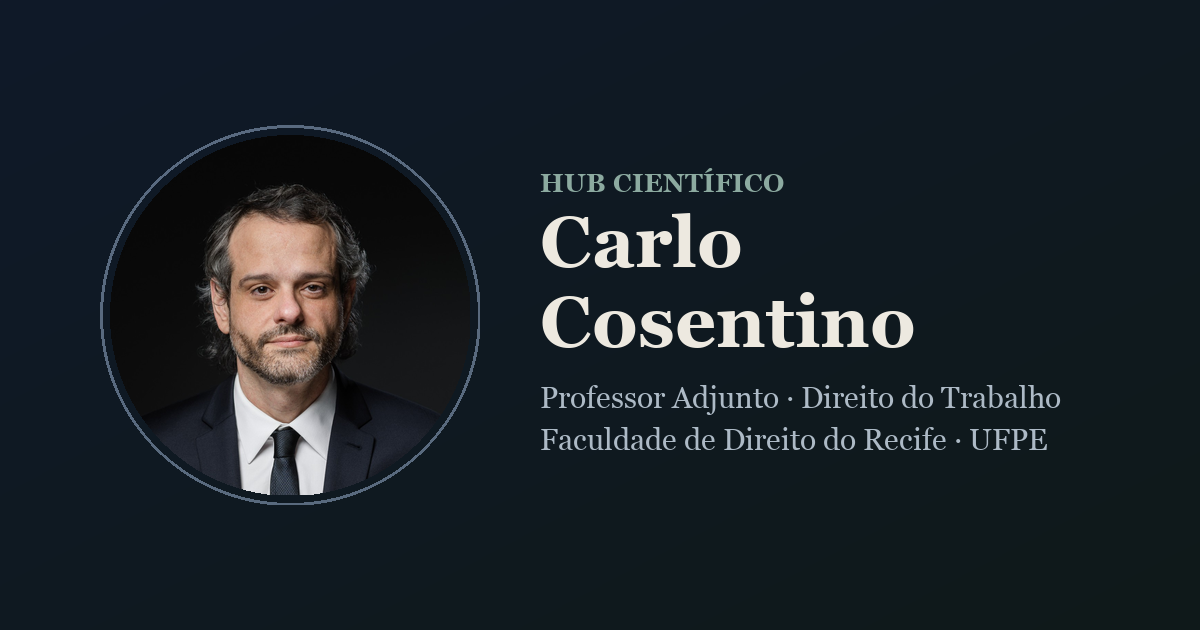
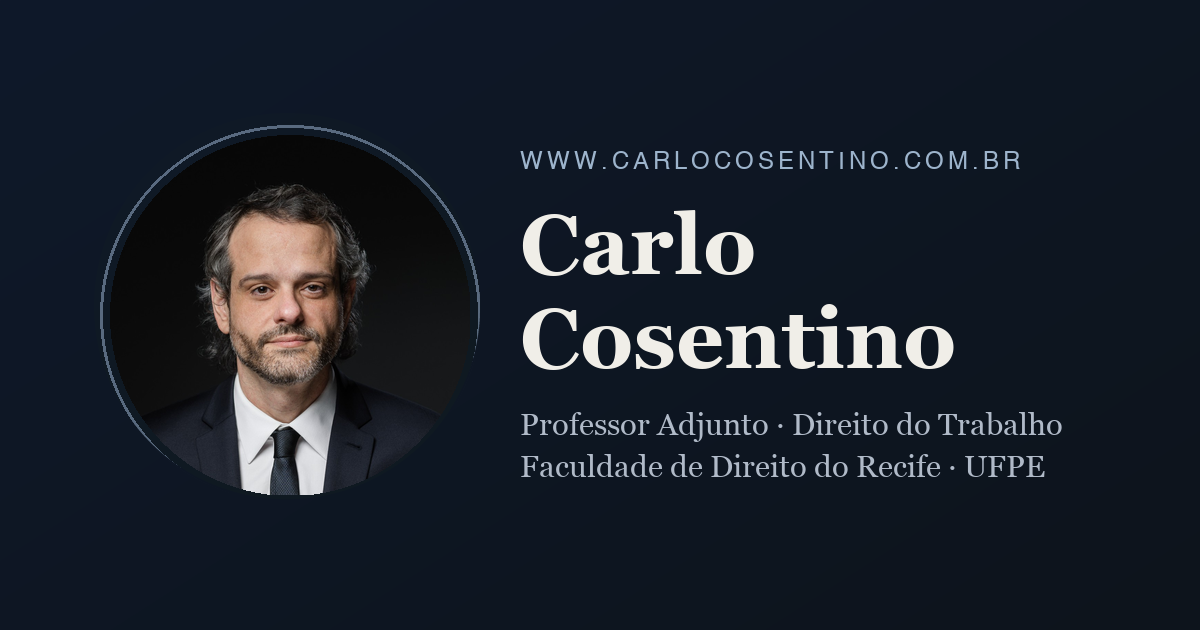
Padroniza títulos, reformula publicações, contato e Grupo de Pesquisa
- Títulos padronizados (block markdown content.title) em Perfil, Publicações,
  Grupo de Pesquisa e nova página Contato
- Página /publication/: lista TODAS as publicações em 2 colunas (desktop)
- Resumos de conteúdo acessíveis (não acadêmicos) em todas as 24 publicações;
  adiciona resumo ao artigo "Revolução informacional" e padroniza "Indústria 4.0"
- Nova página /contato/ (versão completa) + item de menu "Contato";
  rodapé com contato discreto; remove a linha inferior (licença + "Hugo Blox")
- Grupo de Pesquisa "Direito do Trabalho e Teoria Social Crítica": coordenação
  com "Prof." e Lattes (Carlo e Hugo Melo), vínculos linkados (RENAPEDTS/PPGD),
  "Projetos de Pesquisa em andamento" com resumos dos dois projetos
- Remove "hub científico" de todo o site (post, descrição, imagem OG) e
  regenera a imagem de compartilhamento na identidade visual do site

diff --git a/layouts/_partials/hooks/head-end/custom-bg.html b/layouts/_partials/hooks/head-end/custom-bg.html
@@ -96,4 +96,11 @@
   .site-contato button{align-self:flex-end;background:#9db4cc;color:#0a0a0b;border:0;border-radius:10px;padding:.62rem 1.7rem;font-weight:700;font-size:.95rem;cursor:pointer;letter-spacing:.06em}
   .site-contato button:hover{background:#b6c7d8}
   @media(max-width:820px){.site-contato{grid-template-columns:1fr;gap:2rem}}
+  /* Remove a linha inferior do rodapé: ícones de licença + "Made with Hugo Blox" + "Construa a sua" */
+  footer .powered-by{display:none !important}
+  /* Contato discreto no rodapé (versão completa fica em /contato/) */
+  .site-contato-mini{display:flex;flex-wrap:wrap;justify-content:center;align-items:center;gap:.55rem;font-size:.85rem;color:#8a93a0;padding:.3rem 0}
+  .site-contato-mini a{color:#9db4cc;text-decoration:none}
+  .site-contato-mini a:hover{color:#e8e8ea}
+  .site-contato-mini span{color:#454c57}
 </style>

diff --git a/content/projects/_index.md b/content/projects/_index.md
@@ -1,27 +1,36 @@
 ---
-title: 'Grupo de Pesquisa'
+title: 'Direito do Trabalho e Teoria Social Crítica'
 date: 2024-05-19
 type: landing
 
 sections:
   - block: markdown
     content:
+      title: 'Direito do Trabalho e Teoria Social Crítica'
       text: |-
         <style>
         .gp{max-width:820px;margin:0 auto;padding-top:.5rem}
-        .gp__kicker{text-align:center;font-size:.8rem;letter-spacing:.16em;text-transform:uppercase;color:#9db4cc;font-weight:700;margin-bottom:1.2rem}
+        .gp__kicker{text-align:center;font-size:.8rem;letter-spacing:.16em;text-transform:uppercase;color:#9db4cc;font-weight:700;margin:-.6rem 0 1.4rem}
         .gp__desc{color:#cdd2da;line-height:1.85;font-size:1.04rem;text-align:justify;text-justify:inter-word;hyphens:auto;margin:0 0 1.2rem}
         .gp__desc strong{color:#f3f4f6;font-weight:600}
         .gp__meta{color:#aeb6c2;font-size:.96rem;line-height:1.8;margin:1.4rem 0 0;padding-top:1.2rem;border-top:1px solid rgba(255,255,255,.09)}
         .gp__meta strong{color:#f3f4f6;font-weight:600}
+        .gp__meta a{color:#9db4cc;text-decoration:none;border-bottom:1px solid rgba(157,180,204,.35)}
+        .gp__meta a:hover{color:#e8e8ea}
         .gp__links{display:flex;flex-wrap:wrap;gap:.7rem;justify-content:center;margin-top:1.6rem}
         .gp__links a{display:inline-block;padding:.55rem 1.15rem;border:1px solid #2c3340;border-radius:10px;color:#e8e8ea;text-decoration:none;font-weight:600;font-size:.88rem;transition:background .2s}
         .gp__links a:hover{background:#161a22}
+        .gp__projetos{max-width:820px;margin:2.8rem auto 0;padding-top:1.8rem;border-top:1px solid rgba(255,255,255,.09)}
+        .gp__projetos h2{font-size:.82rem;letter-spacing:.14em;text-transform:uppercase;color:#9db4cc;font-weight:700;margin:0 0 1.6rem;text-align:center}
+        .gp__proj{margin:0 0 1.8rem}
+        .gp__proj h3{font-size:1.02rem;font-weight:700;color:#f3f4f6;line-height:1.4;margin:0 0 .55rem}
+        .gp__proj p{color:#cdd2da;line-height:1.8;font-size:1rem;text-align:justify;text-justify:inter-word;hyphens:auto;margin:0}
+        .gp__proj .coord{display:block;font-size:.85rem;color:#8a93a0;margin-top:.5rem}
         </style>
         <div class="gp">
           <div class="gp__kicker">Grupo de Pesquisa · FDR / UFPE</div>
           <p class="gp__desc">O Grupo de Pesquisa <strong>Direito do Trabalho e Teoria Social Crítica</strong>, da Universidade Federal de Pernambuco, tem o objetivo de propagar as ideias desenvolvidas ao longo dos anos na linha de pesquisa iniciada pelo professor Doutor Everaldo Gaspar Lopes de Andrade, trazendo diversos temas de Direito do Trabalho, sob uma luz ou inspiração filosófica, que vão desde o deslocamento do objeto do trabalho contraditoriamente livre/subordinado/assalariado, até as crises do sindicalismo em virtude do desemprego estrutural e da clandestinização da força de trabalho; a globalização, a revolução informacional, os movimentos migratórios e as metamorfoses das relações de trabalho; bem ainda o trabalho no contexto da teoria organizacional crítica, entre diversos outros objetos. Pretende, através de publicações científicas, eventos e demais meios de organização e publicação nas mídias eletrônicas, propagar o pensamento da escola do Recife a todos os espaços físicos e virtuais de resistência.</p>
-          <p class="gp__meta"><strong>Coordenação:</strong> Carlo Cosentino e Hugo Cavalcanti Melo Filho<br><strong>Fundamentos teóricos:</strong> Everaldo Gaspar Lopes de Andrade<br><strong>Vínculos:</strong> Linha 2.1 do Programa de Pós-Graduação em Direito (PPGD/UFPE) · Rede Nacional de Pesquisas e Estudos em Direito do Trabalho e da Seguridade Social (RENAPEDTS)</p>
+          <p class="gp__meta"><strong>Coordenação:</strong> <a href="http://lattes.cnpq.br/9403069473693221" target="_blank" rel="noopener">Prof. Carlo Cosentino</a> e <a href="http://lattes.cnpq.br/1618403722316877" target="_blank" rel="noopener">Prof. Hugo Melo</a><br><strong>Vínculos:</strong> <a href="https://www.ufrgs.br/renapedts/" target="_blank" rel="noopener">Rede Nacional de Pesquisas e Estudos em Direito do Trabalho e da Seguridade Social (RENAPEDTS)</a> · <a href="https://www.ufpe.br/ppgd" target="_blank" rel="noopener">Projeto Coletivo de Pesquisa 1.5 — Direito do Trabalho e Teoria Social Crítica (PPGD/UFPE)</a></p>
           <div class="gp__links">
             <a href="https://grupodepesquisadireitodotrabalhoufpe.wordpress.com/" target="_blank" rel="noopener">Site oficial</a>
             <a href="http://dgp.cnpq.br/dgp/espelhogrupo/42738" target="_blank" rel="noopener">Diretório CNPq</a>
@@ -31,19 +40,19 @@ sections:
             <a href="mailto:direitodotrabalhofdrufpe@gmail.com">E-mail</a>
           </div>
         </div>
+        <div class="gp__projetos">
+          <h2>Projetos de Pesquisa em andamento</h2>
+          <div class="gp__proj">
+            <h3>Impactos da Revolução Informacional e do Desenvolvimento Tecnológico no Direito do Trabalho</h3>
+            <p>Investiga como a inteligência artificial, os algoritmos, a automação e as plataformas digitais estão remodelando o mundo do trabalho — da uberização e da vigilância tecnológica à precarização das relações laborais. A pesquisa discute os desafios que o capitalismo de plataforma impõe à autonomia do Direito do Trabalho e acompanha debates legislativos como o PLP 12/2024, a partir de uma abordagem interdisciplinar ancorada na tradição crítica da Escola do Recife.</p>
+            <span class="coord">Coordenação: Prof. Carlo Cosentino</span>
+          </div>
+          <div class="gp__proj">
+            <h3>No Rastro da História do Direito Brasileiro do Trabalho: resgate e contemporaneidade dos pensamentos de Tobias Barreto de Menezes, Joaquim Pimenta e Luiz Pinto Ferreira</h3>
+            <p>Resgata as contribuições de três juristas pernambucanos ligados à Faculdade de Direito do Recife e à Escola do Recife — Tobias Barreto, Joaquim Pimenta e Luiz Pinto Ferreira — para compreender as raízes históricas do Direito do Trabalho brasileiro e sua atualidade. Por meio de seminários e da elaboração de uma obra coletiva, o projeto articula história do direito, pensamento social e trabalho numa perspectiva interdisciplinar.</p>
+            <span class="coord">Coordenação: Prof. Hugo Melo</span>
+          </div>
+        </div>
     design:
       columns: '1'
-  - block: collection
-    content:
-      title: Linhas de pesquisa
-      filters:
-        folders:
-          - projects
-    design:
-      view: article-grid
-      fill_image: false
-      columns: 3
-      show_date: false
-      show_read_time: false
-      show_read_more: false
 ---

diff --git a/content/publication/2024-alem-do-horizonte-digital-explorando-o-crowdwork-no-brasil-e-suas-implicacoes-na/index.md b/content/publication/2024-alem-do-horizonte-digital-explorando-o-crowdwork-no-brasil-e-suas-implicacoes-na/index.md
@@ -11,7 +11,7 @@ publication:
   volume: "28"
   pages: "02--03"
 abstract: |-
-  No capitalismo contemporâneo emerge um novo trabalho de plataformas digitais: o crowdwork. Nesse sentido, o presente artigo trata sobre o estudo do crowdwork ou microtrabalho no Brasil, em que consiste na realização de microtarefas realizadas por humanos a fim de treinar a Inteligência Artificial. No paradigma da heteromação, o loop humano se torna essencial, porém precário. A baixa/variável remuneração, instabilidade, insegurança, informalidade, sobrecarga e ausência de regulação são camuflados pela procura da flexibilidade, renda e reconhecimento. Objetiva-se neste estudo analisar o fenômeno do crowdwork ou microtrabalho no Brasil, investigando especificamente seus impactos sociais, econômicos e regulatórios, incluindo a relação com o adoecimento dos trabalhadores, a proteção e regulação existentes, bem como a viabilidade da renda básica universal nesse contexto. O método utilizado neste estudo será o dialético, adequado para captar a historicidade e as transformações contínuas nos modos de produção capitalista, especialmente com a chegada da Indústria 4.0 ou Quarta Revolução Industrial. Quanto à abordagem, será utilizada a qualitativa, voltada para a parte subjetiva da problemática, capaz de identificar e analisar dados que não podem ser expressos de forma exclusivamente numérica. O trabalho será realizado através de pesquisa bibliográfica de autores especialistas sobre o tema, a partir de fontes já elaboradas, com análise de conteúdo crítico.
+  Por trás de tarefas digitais simples há um exército invisível de trabalhadores. O artigo investiga o crowdwork — o microtrabalho em plataformas — no Brasil e suas implicações para a sociedade do trabalho.
 url_source: "https://revistaft.com.br/alem-do-horizonte-digital-explorando-o-crowdwork-no-brasil-e-suas-implicacoes-na-sociedade-do-trabalho/"
 featured: true
 hugoblox:

diff --git a/content/publication/2019-a-subordinacao-estrutural-nas-relacoes-trabalhistas-on-demand-o-caso-uber/index.md b/content/publication/2019-a-subordinacao-estrutural-nas-relacoes-trabalhistas-on-demand-o-caso-uber/index.md
@@ -11,7 +11,7 @@ publication:
   volume: "v.8"
   pages: "61--84"
 abstract: |-
-  A necessidade em ter uma normatização específica referente às novas relações de trabalho impostas pelo mundo tecnológico é uma das discussões mais relevantes do mundo atual. Uma das situações basilares do direito individual do trabalho é a subordinação; graças a esta, entendeu-se que o Estado deveria ter por obrigação estabelecer garantias para aqueles que, por motivos de subsistência, submeter-se-iam a jornadas de trabalho exaustivas, sem regulamentação e sem condições mínimas referentes à proteção de direitos fundamentais. O Direito do Trabalho, atualmente, vem com um grande conteúdo teórico-crítico que visa a normas trabalhistas advindas pelo universo tecnológico que dita os conceitos econômicos e sociais. Neste contexto, conhecemos o modelo da economia compartilhada, por meio da qual foram desenvolvidas técnicas de prestações de serviços dentro de uma rede de informação que conhecemos como internet para, assim, estabelecer conexão entre venda e consumo por meio de aplicativos organizados por algoritmos. Este comportamento é conhecido como on demand (sob demanda). O que se entende, em meio a esta realidade, é a existência de um grande contingente de pessoas que estão fora do mercado de trabalho por inúmeros motivos — como crises econômicas, políticas e sociais — e que se sujeitam a modalidades de trabalho temporário ou de curto prazo, dispondo-se a oferecer seus serviços e habilidades com a ajuda de plataformas informacionais e seus softwares, como o aplicativo Uber.
+  Motoristas de aplicativo são autônomos ou empregados? A partir do caso Uber, o artigo mostra como a subordinação ao trabalho não desapareceu — apenas mudou de forma — e defende a necessidade de regras próprias para o trabalho sob demanda da economia digital.
 featured: true
 links:
   - name: Texto do artigo

diff --git a/content/publication/2025-do-cronometro-ao-algoritmo-a-metamorfose-neoliberal-da-exploracao-do-trabalho/index.md b/content/publication/2025-do-cronometro-ao-algoritmo-a-metamorfose-neoliberal-da-exploracao-do-trabalho/index.md
@@ -11,7 +11,7 @@ publication:
   name: "Anais do VIII Encontro Virtual do CONPEDI — Direito do Trabalho e Meio Ambiente do Trabalho I"
   pages: "241--262"
 abstract: |-
-  O presente artigo procura examinar a uberização do trabalho como estratégia neoliberal que atualiza a exploração capitalista via algoritmos, reconfigurando relações laborais sob a ilusão de autonomia. Partindo da evolução histórica do controle do trabalho — do Taylorismo ao Toyotismo —, demonstra-se que a subordinação migrou das fábricas para plataformas digitais, nas quais sistemas automatizados, controlados por seres humanos capitalistas, ditam metas, jornadas exaustivas e penalizações, mascarando vínculos empregatícios. Essa técnica tem por combustível a ideologia neoliberal, que, ao desregular direitos e fetichizar o empreendedorismo, naturaliza a precariedade, reduzindo trabalhadores a "dados" e insumos à extração do lucro. Por meio de análise crítica, pesquisa exploratório-descritiva, revisão transdisciplinar (Direito, Economia, Sociologia) e método dialético, o artigo procura desvelar a continuidade das técnicas de dominação, agora mediadas por tecnologia. Conclui-se que a uberização do trabalho, enquanto processo, não dispensa a aplicação das leis trabalhistas vigentes, necessitando-se da revigoração dos princípios protetivos do Direito do Trabalho e da reorganização coletiva na tentativa de frear a captura neoliberal da subjetividade e a barbárie contemporânea.
+  Do cronômetro de Taylor ao algoritmo dos aplicativos: muda a ferramenta, permanece a exploração. O artigo examina a uberização como estratégia neoliberal que atualiza, por meio de algoritmos, velhas formas de controle e exploração do trabalho.
 featured: true
 links:
   - name: Texto do artigo

diff --git a/content/publication/2018-o-direito-coletivo-do-trabalho-na-sociedade-pos-industrial-desafios-a-recomposic/index.md b/content/publication/2018-o-direito-coletivo-do-trabalho-na-sociedade-pos-industrial-desafios-a-recomposic/index.md
@@ -10,7 +10,7 @@ publication:
   volume: "2"
   pages: "367--386"
 abstract: |-
-  O presente artigo se propõe a demonstrar os desafios do Direito Coletivo do Trabalho no contexto da sociedade pós-industrial, marcada pela fragmentação das categorias profissionais que são a base de sustentação de um sistema de garantias trabalhistas mínimas. Objetiva comprovar o poder dos trabalhadores do conhecimento e a sua capacidade de reconstruir o movimento sindical tal como em sua origem, ou seja, verdadeiramente emancipatório e contra-hegemônico. As lutas coletivas nos últimos séculos tornaram-se meramente reivindicativas, especialmente com o advento do Estado do Bem-estar Social. A Revolução Informacional subverteu o paradigma capitalista fordista e, nesse cenário, surgiram novos atores que protagonizam o jogo de forças entre o capital e o trabalho. A luta de classes, baseada no sindicalismo de caráter obreirista, não responde mais aos anseios dos trabalhadores da sociedade pós-fordista, que deverá se adaptar ao novo contexto social para reestabelecer a sua força. Para tanto, o movimento sindical deve agregar não só os trabalhadores do conhecimento, como também o proletariado, os desempregados e não empregáveis atingidos pelo desemprego estrutural, os autônomos, bem como os sem teto e os sem terra, enfim, toda a classe-que-vive-do-trabalho.
+  Com a fragmentação das categorias profissionais e o enfraquecimento dos sindicatos, como reconstruir a solidariedade entre os trabalhadores? O artigo examina os desafios do Direito Coletivo do Trabalho na sociedade pós-industrial e as possibilidades de recompor a consciência de classe.
 url_source: "https://revista.unicuritiba.edu.br/index.php/RevJur/article/view/2814"
 featured: false
 ---

diff --git a/content/post/lancamento-do-site/index.md b/content/post/lancamento-do-site/index.md
@@ -1,21 +1,20 @@
 ---
-title: "Novo hub científico no ar"
-summary: "Lançamento da página agregadora da produção científica e da atuação acadêmica de Carlo Cosentino, reunindo publicações, linhas de pesquisa e remissões aos demais canais científicos."
+title: "Novo site no ar"
+summary: "Lançamento da página que reúne a produção científica e a atuação acadêmica de Carlo Cosentino — publicações, projetos de pesquisa e remissões aos demais canais científicos."
 date: 2026-06-04
 authors:
   - me
 tags:
-  - Hub científico
   - Produção acadêmica
 featured: true
 ---
 
-É com satisfação que apresento este **hub científico**, página agregadora da minha produção acadêmica e da minha atuação como Professor Adjunto da Faculdade de Direito do Recife – UFPE.
+É com satisfação que apresento este novo site, página que reúne a minha produção acadêmica e a minha atuação como Professor Adjunto da Faculdade de Direito do Recife – UFPE.
 
 O sítio reúne, em um único endereço:
 
 - as **publicações** — artigos, capítulos e livros dedicados ao Direito do Trabalho na era digital;
-- as **linhas de pesquisa** que organizam essa produção, da plataformização do trabalho ao neotaylorismo digital;
+- os **projetos de pesquisa** que organizam essa produção, da plataformização do trabalho ao neotaylorismo digital;
 - as **remissões** aos demais canais científicos — ORCID, Google Scholar, Currículo Lattes, Academia.edu e ResearchGate.
 
 A proposta é oferecer um ponto de acesso estável e curado à pesquisa que desenvolvo, em diálogo com a teoria social crítica e com os desafios contemporâneos da proteção social diante das transformações tecnológicas do trabalho.

diff --git a/content/publication/2020-a-organizacao-do-trabalho-enquanto-organizacao-de-poder/index.md b/content/publication/2020-a-organizacao-do-trabalho-enquanto-organizacao-de-poder/index.md
@@ -11,7 +11,7 @@ publication:
   volume: "v.11, n.21"
   pages: "39--72"
 abstract: |-
-  O artigo procura, inicialmente, revelar a maneira como o direito e o estado modernos formularam e instituíram a forma jurídica trabalho livre-subordinado; a maneira como ela se tornou o a priori das teorizações, a protoforma da vida a reger a sociedade moderna, a partir da compra e venda da força de trabalho. Procura demonstrar como essa divisão social do trabalho vem sofrendo, ao longo dos tempos, tratamentos analíticos ainda mais sofisticados, sobretudo a partir da chamada Administração Científica da Era Fordista, até chegar ao controle da alma, da subjetividade, e projetar ideologicamente a figura de um sujeito neoliberal que, embora sofra muito mais, imagina ser o único responsável pelo seu sucesso e pelo seu fracasso. Destaca o significado das tecnologias da informação e da comunicação na constituição desses ainda mais sofisticados controles; demonstra os seus impactos no meio ambiente do trabalho e revela o seu antípoda — o adoecimento da sociedade do trabalho. Por fim, acredita ser possível construir, ao lado das relações de trabalho subordinadas, outras alternativas, como a prevalência da economia social e solidária e uma renda universal garantida.
+  Toda organização do trabalho é também uma organização de poder. Inspirado na ideia de sociedade de controle, o texto revela como o Direito moderno instituiu o trabalho livre-subordinado e busca, nas teorias críticas, caminhos para emancipá-lo.
 featured: true
 links:
   - name: Texto do artigo

diff --git a/content/contato/_index.md b/content/contato/_index.md
@@ -1,0 +1,35 @@
+---
+title: 'Contato'
+date: 2026-06-04
+type: landing
+
+sections:
+  - block: markdown
+    content:
+      title: 'Contato'
+      text: |-
+        <div class="site-contato site-contato--page">
+        <div class="site-contato__info">
+        <div class="firma">Cosmo e Cosentino Advogados</div>
+        <p>Rua Frei Matias Teves, 280 — Sala 305<br>Ilha do Leite (Empresarial Albert Einstein)<br>Recife/PE · CEP 50070-465</p>
+        <p>Telefone: <a href="tel:+558130330089">+55 81 3033-0089</a><br>WhatsApp: <a href="https://wa.me/5581996372619" target="_blank" rel="noopener">+55 81 99637-2619</a></p>
+        <p>E-mail: <a href="mailto:contato@carlocosentino.com.br">contato@carlocosentino.com.br</a></p>
+        <a class="wa" href="https://wa.me/5581996372619" target="_blank" rel="noopener">Falar no WhatsApp</a>
+        </div>
+        <div class="site-contato__form">
+        <form action="mailto:contato@carlocosentino.com.br" method="post" enctype="text/plain">
+        <label for="ct-nome">Seu nome</label>
+        <input id="ct-nome" name="Nome" type="text" required>
+        <label for="ct-email">Seu e-mail</label>
+        <input id="ct-email" name="E-mail" type="email" required>
+        <label for="ct-assunto">Assunto</label>
+        <input id="ct-assunto" name="Assunto" type="text">
+        <label for="ct-msg">Sua mensagem</label>
+        <textarea id="ct-msg" name="Mensagem"></textarea>
+        <button type="submit">ENVIAR</button>
+        </form>
+        </div>
+        </div>
+    design:
+      columns: '1'
+---

diff --git a/content/publication/2020-neotaylorismo-digital-e-a-economia-do-descompartilhamento/index.md b/content/publication/2020-neotaylorismo-digital-e-a-economia-do-descompartilhamento/index.md
@@ -10,7 +10,7 @@ publication:
   publisher: "Brasília: ESMPU"
   pages: "417--430"
 abstract: |-
-  O presente artigo tem como objeto os modelos de divisão do trabalho da economia do compartilhamento a partir das formulações apresentadas pela administração científica contemporânea. Descreve o neotaylorismo digital aplicado às plataformas informacionais, em modelos considerados "bem-sucedidos" pelo capitalismo cognitivo, contudo onerosos socialmente. Neles, os "colaboradores" são chamados a "empreender" sem proteção social mínima, com renda insatisfatória, em jornadas extenuantes, sem estabilidade alguma, desprovidos de identidade de classe e distantes de garantias básicas, como seguridade social. O estudo parte, assim, para duas proposições: revelar a falsidade da expressão "economia do compartilhamento", uma vez que ela é, na verdade, instrumento de reforço do espírito individualista e concorrencial neoliberal; e alertar para a necessidade de restauração da consciência de classe, agora de caracteres ao mesmo tempo reformistas — para ampliar os cânones da proteção e garantir dignidade a todos os trabalhadores e trabalhadoras — e revolucionários, para restabelecer as lutas emancipatórias também no campo digital.
+  A "economia do compartilhamento" é mesmo colaborativa? O artigo desmonta esse discurso e mostra como os aplicativos reeditam, em versão digital, o velho taylorismo — um neotaylorismo que cronometra e controla o trabalho pela tela do celular.
 featured: true
 links:
   - name: Ler no livro (ESMPU, p. 417)

diff --git a/content/publication/2020-os-impactos-da-industria-40-no-ambito-juridico-uma-analise-da-evolucao-digital-d/index.md b/content/publication/2020-os-impactos-da-industria-40-no-ambito-juridico-uma-analise-da-evolucao-digital-d/index.md
@@ -11,7 +11,7 @@ publication:
   volume: "v.9"
   pages: "133--147"
 abstract: |-
-  Este trabalho tem como objeto de pesquisa a análise dos efeitos da quarta revolução industrial, de como essa revolução tem contribuído para o desenvolvimento de softwares denominados inteligências artificiais e de como esses softwares podem ocasionar a perda de empregos na área jurídica. Esses programas têm como característica a capacidade de aprender e operar igual a um ser humano. Desde o início da quarta revolução industrial, inúmeros países têm investido no desenvolvimento de inteligências artificiais, para que essa tecnologia possa automatizar funções que hoje são exercidas pela mão de obra humana, permitindo assim que, com a ausência de salários e tributos trabalhistas, o lucro aumente, já que a mão de obra e os meios de produção pertencerão única e exclusivamente ao capital. Assim, serão apresentados os possíveis impactos aos principais cargos da área jurídica — estagiários, advogados e membros da magistratura —, analisando os prós e contras dessa automação e os possíveis impactos sociais que dela podem decorrer.
+  A inteligência artificial vai substituir advogados, estagiários e juízes? O artigo analisa os efeitos da Indústria 4.0 sobre as profissões jurídicas, pesando os prós e contras da automação e os impactos sociais de uma tecnologia capaz de aprender e decidir como um ser humano.
 featured: true
 links:
   - name: Texto do artigo

diff --git a/content/publication/2024-a-acao-coletiva-no-seculo-xxi-o-trabalho-autonomo-e-o-cibertariado/index.md b/content/publication/2024-a-acao-coletiva-no-seculo-xxi-o-trabalho-autonomo-e-o-cibertariado/index.md
@@ -10,7 +10,7 @@ publication:
   publisher: "Belo Horizonte: RTM"
   pages: "213--232"
 abstract: |-
-  O capítulo retoma a dicotomia capital × trabalho na sociedade contemporânea para demonstrar que, sob o discurso neoliberal da superação da luta de classes, persistem — e se renovam — as formas de exploração da força de trabalho. Diante da figura do trabalhador convertido em "empreendedor" e da dispersão do antigo operário do chão de fábrica, o texto investiga a perda da consciência de classe e os caminhos para a reorganização da ação coletiva no século XXI, no contexto do trabalho autônomo e do chamado cibertariado. O estudo organiza-se em três partes: o paradigma do trabalho subordinado na sociedade moderna; a ação coletiva na modernidade, sob a égide do trabalho livre e subordinado; e a ação coletiva no século XXI, no contexto do trabalho autônomo e do cibertariado.
+  A luta entre capital e trabalho acabou? Longe disso. O capítulo mostra como, sob o discurso neoliberal do "empreendedor de si", surge o cibertariado — uma nova classe de trabalhadores digitais — e por que a ação coletiva continua indispensável no século XXI.
 featured: true
 links:
   - name: Texto do capítulo
